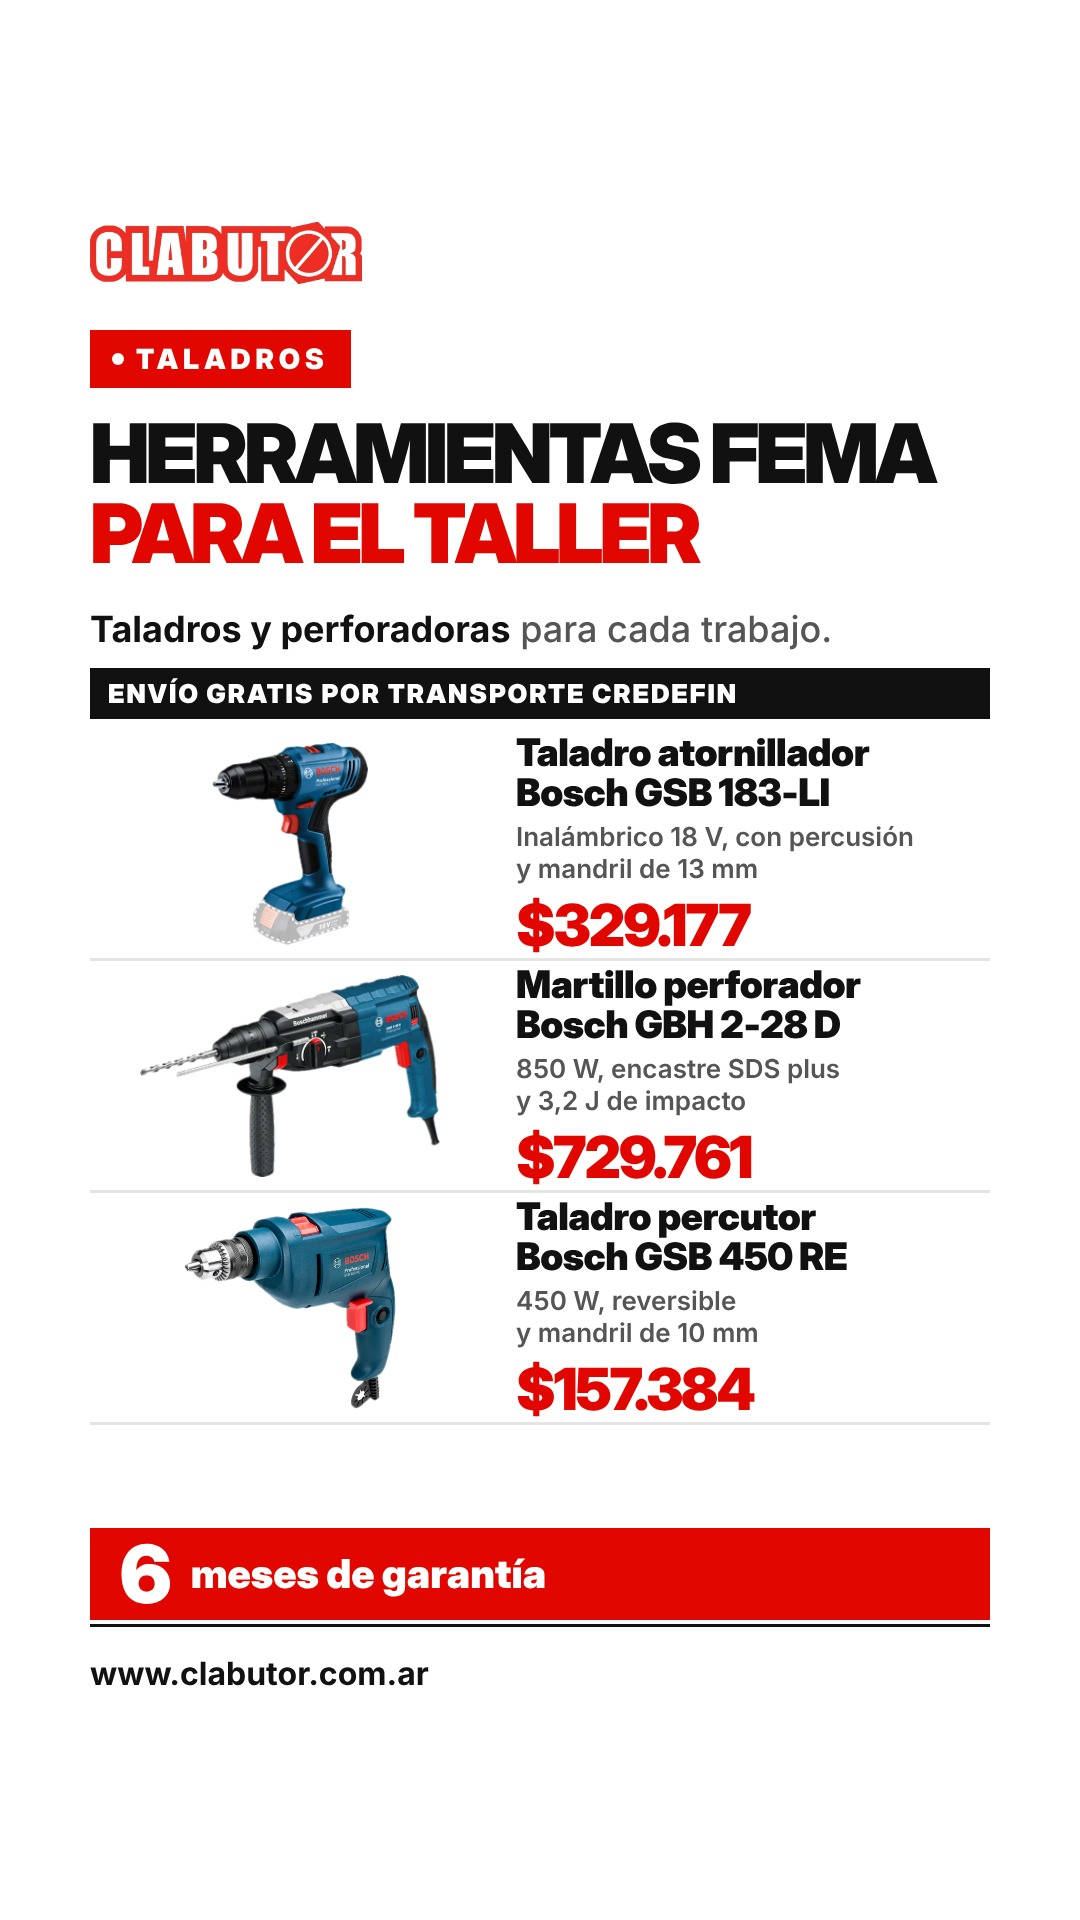
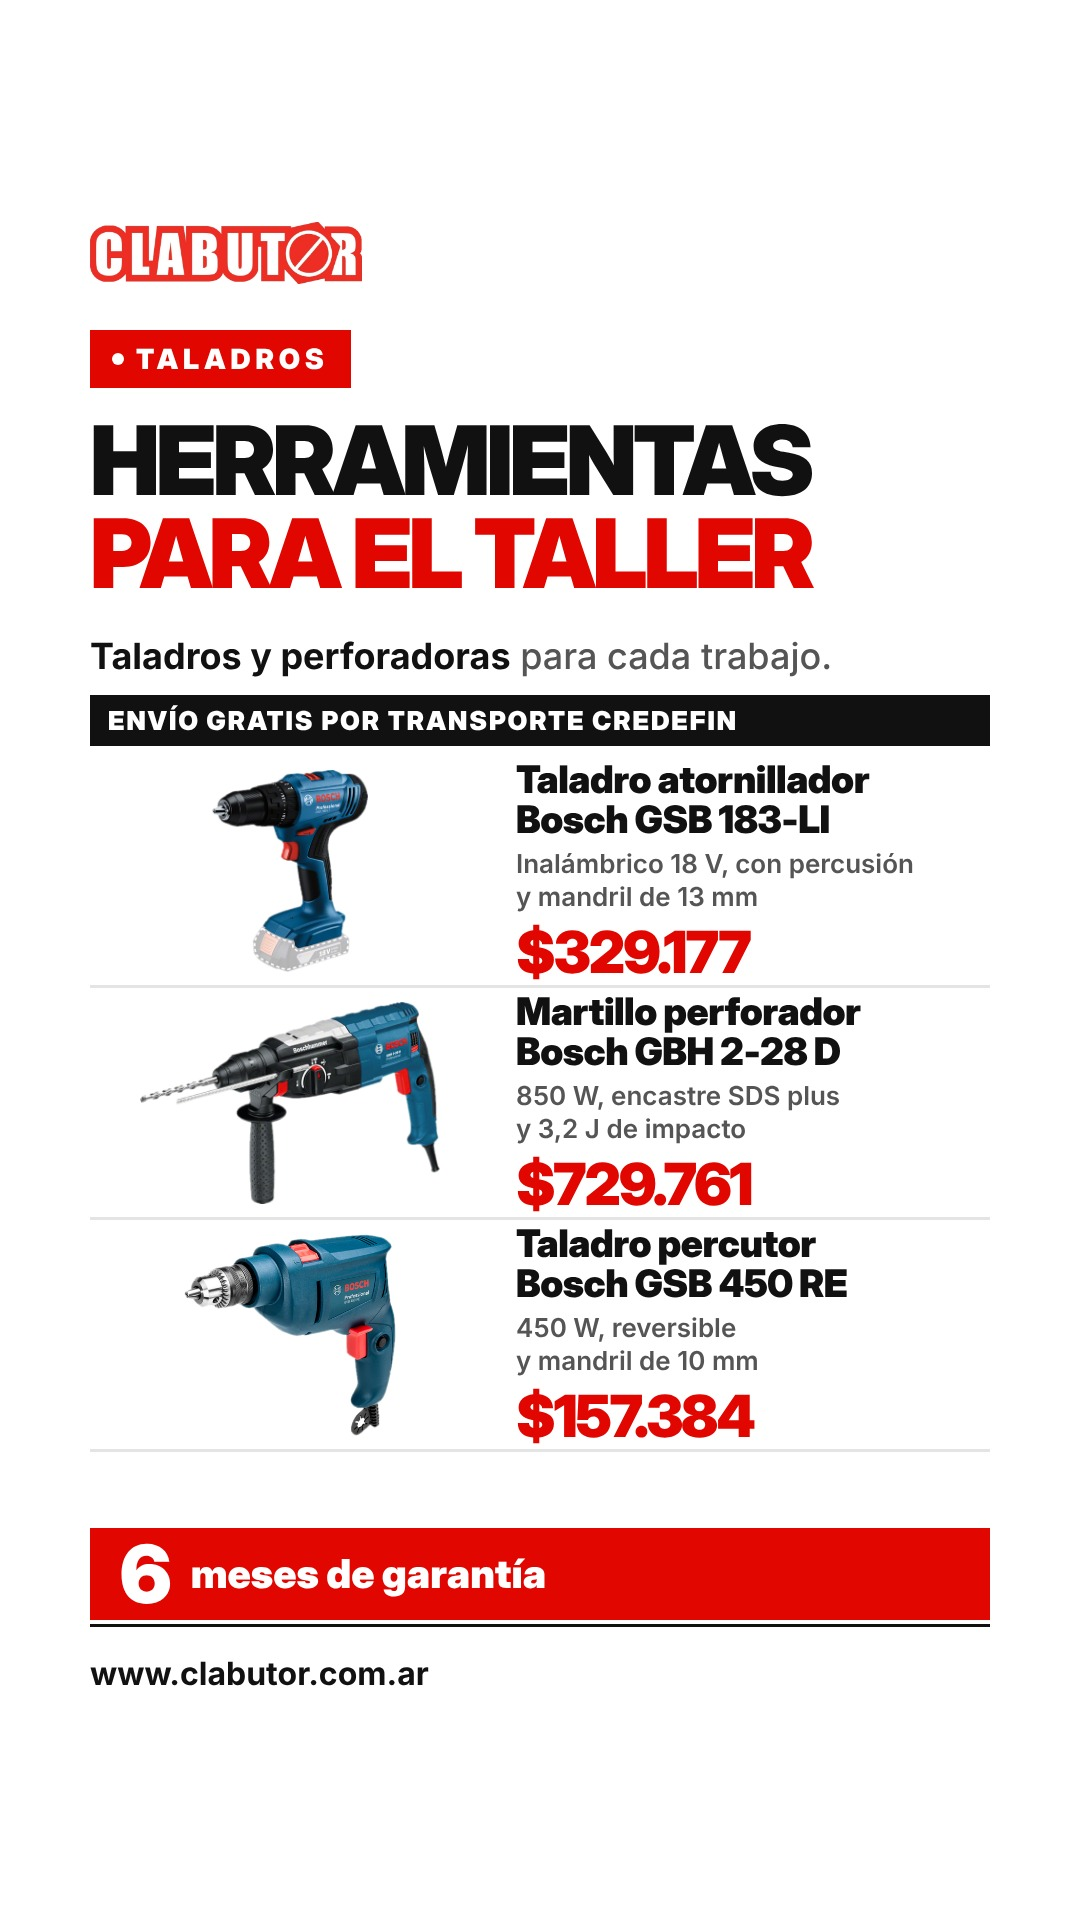
Carpintería: sin FEMA en títulos y franjas (04-06 corregidas en borrador aparte)
Claude-Session: https://claude.ai/code/session_01XbJLpPx7CCs1ipZpL6GiAh

Changed region(s): [[0.0611, 0.2188, 0.9167, 0.75]]

diff --git a/disenos/posteos/historia-carpinteria.py b/disenos/posteos/historia-carpinteria.py
@@ -82,7 +82,7 @@ def placas(g):
 
     p4a = g.MARCA_PRODUCTO + f'''
 <div class="pildora"><i></i>TALADROS</div>
-<h1 style="font-size:82px;margin-top:26px;white-space:nowrap">Herramientas FEMA<br><em>para el taller</em></h1>
+<h1 style="font-size:96px;margin-top:26px;white-space:nowrap">Herramientas<br><em>para el taller</em></h1>
 <p class="bajada" style="font-size:36px"><b>Taladros y perforadoras</b> para cada trabajo.</p>
 <div style="display:inline-block;background:#111;color:#fff;font-family:Titular;font-weight:900;font-size:26px;letter-spacing:2px;padding:10px 18px;margin-top:16px">ENVÍO GRATIS POR TRANSPORTE CREDEFIN</div>
 <div style="margin-top:10px">
@@ -94,7 +94,7 @@ def placas(g):
 '''
 
     p4b = g.MARCA_PRODUCTO + f'''
-<div class="pildora"><i></i>HERRAMIENTAS FEMA</div>
+<div class="pildora"><i></i>HERRAMIENTAS</div>
 <h1 style="font-size:88px;margin-top:26px;white-space:nowrap">Atornilladores<br><em>y caladoras</em></h1>
 <p class="bajada" style="font-size:36px">Para armar muebles y <b>cortar con precisión.</b></p>
 <div style="display:inline-block;background:#111;color:#fff;font-family:Titular;font-weight:900;font-size:26px;letter-spacing:2px;padding:10px 18px;margin-top:16px">ENVÍO GRATIS POR TRANSPORTE CREDEFIN</div>
@@ -106,7 +106,7 @@ def placas(g):
 '''
 
     p4c = g.MARCA_PRODUCTO + f'''
-<div class="pildora"><i></i>HERRAMIENTAS FEMA</div>
+<div class="pildora"><i></i>HERRAMIENTAS</div>
 <h1 style="font-size:88px;margin-top:26px;white-space:nowrap">Compresores<br><em>y clavadoras</em></h1>
 <p class="bajada" style="font-size:36px">Aire comprimido para <b>clavar y engrampar en serie.</b></p>
 <div style="display:inline-block;background:#111;color:#fff;font-family:Titular;font-weight:900;font-size:26px;letter-spacing:2px;padding:10px 18px;margin-top:16px">ENVÍO GRATIS POR TRANSPORTE CREDEFIN</div>
